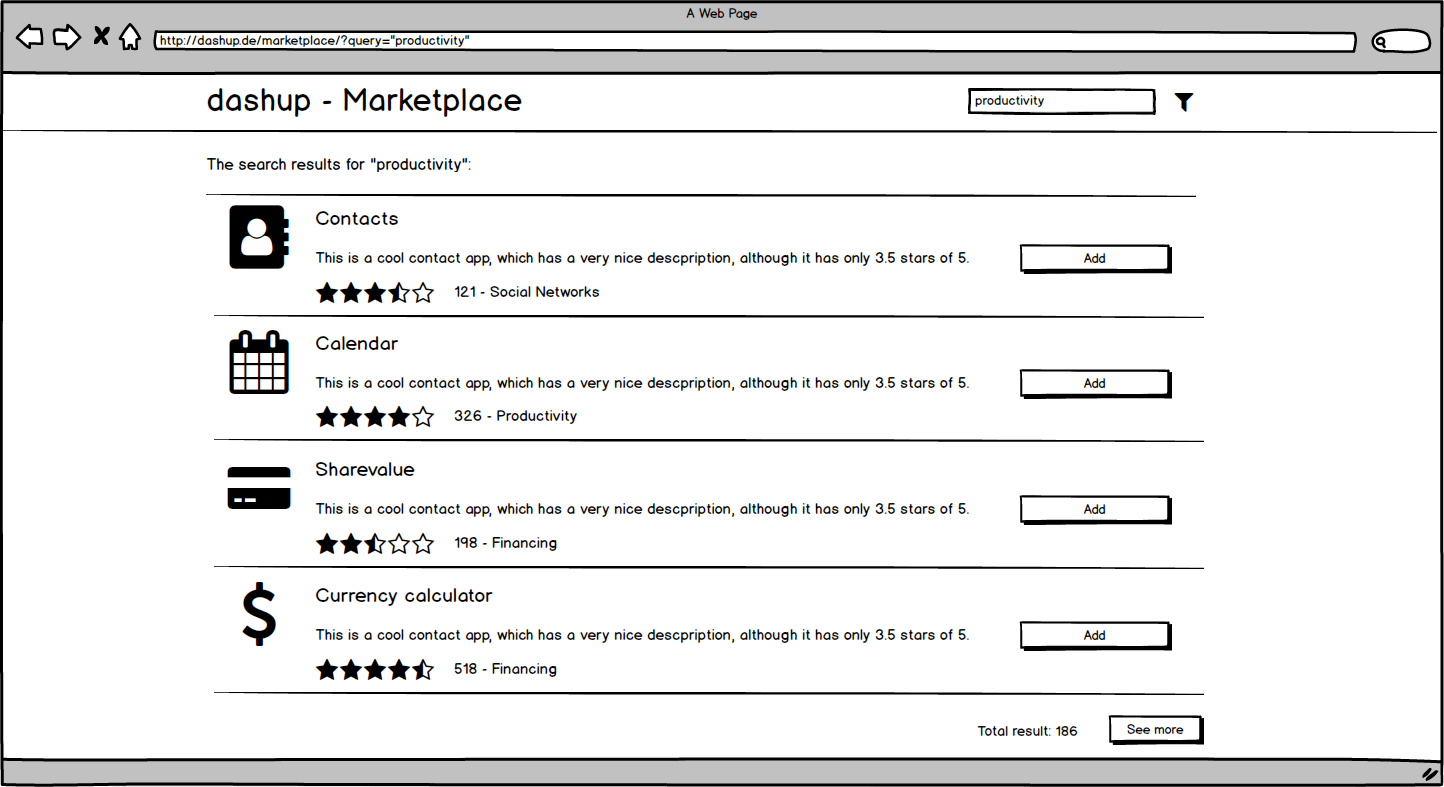
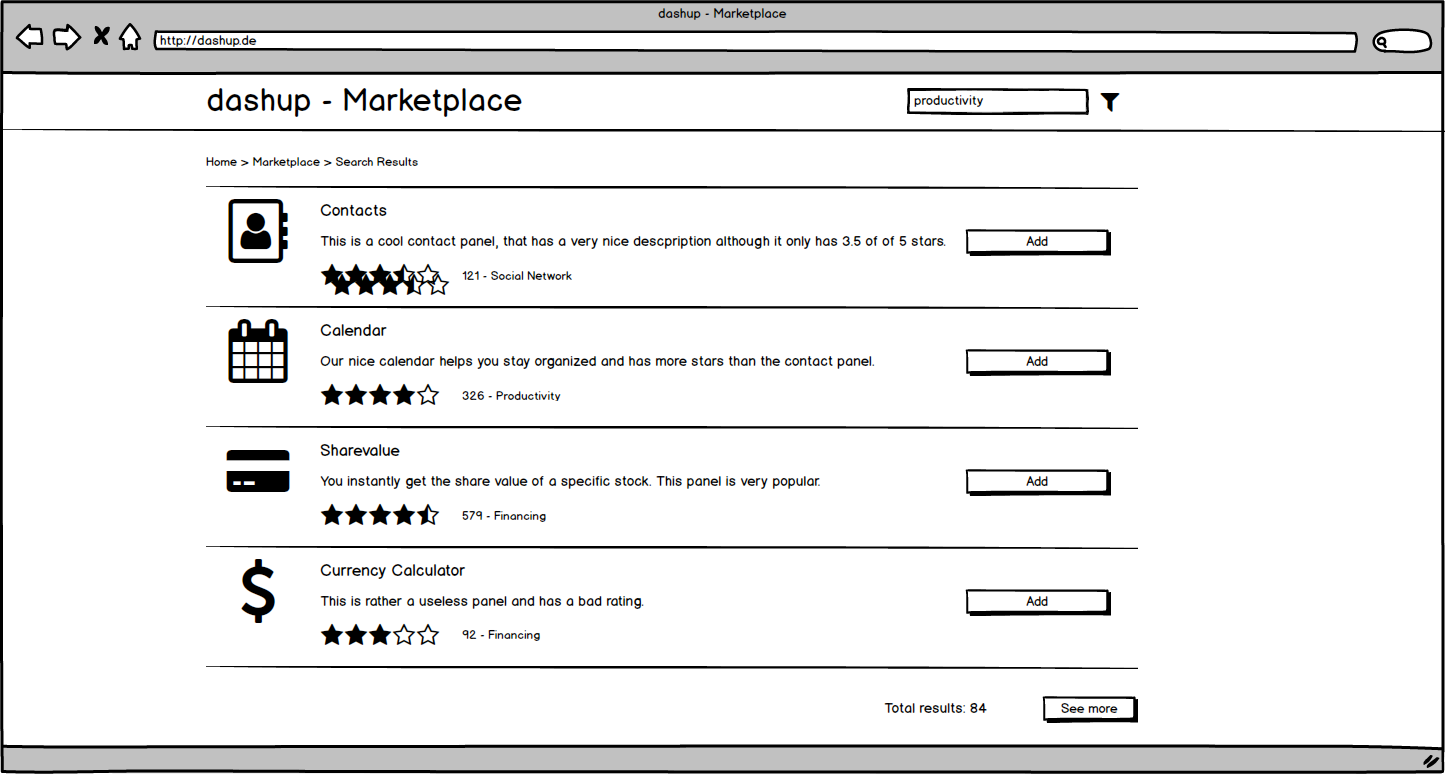
master: refactored marketplace mockups and added them to UCS

Changed region(s): [[0.0, 0.0, 0.9972, 0.9922], [0.0, 0.9612, 0.187, 0.9922]]

diff --git a/docs/ucs/marketplace/UCS_marketplace.md b/docs/ucs/marketplace/UCS_marketplace.md
@@ -13,7 +13,7 @@ dashup - Use Case Specification: Marketplace
 - [Marketplace - Brief Description](#1-marketplace---brief-description) 
 - [Flow Of Events](#2-flow-of-events)
     - [Basic Flow](#21-basic-flow)  
-    - [Alternative Flows](#24-alternative-flows)
+    - [Alternative Flows](#22-alternative-flows)
 - [Special Requirements](#3-special-requirements)
 - [Preconditions](#4-preconditions)
     - [Sufficient amount of microservices](#41-sufficient-amount-of-microservices)
@@ -40,11 +40,13 @@ their dashboard.
 <br />
 <img src="./mockups/Search Results.png" alt="Search Results" />
 <br />
-<img src="./mockups/Search Results with Filter Dialog.png" alt="Search Results with Filter Dialog" />
+<img src="./mockups/Search Results (Filter).png" alt="Search Results with Filter Dialog" />
 <br />
 <img src="./mockups/Detail Page (Overview).png" alt="Detail Page (Overview)" />
 <br />
 <img src="./mockups/Detail Page (Ratings).png" alt="Detail Page (Ratings)" />
+<br />
+<img src="./mockups/Detail Page (Write Comment).png" alt="Detail Page (Ratings)" />
 <br />
 <img src="./mockups/Detail Page (Similar).png" alt="Detail Page (Similar)" />
 
